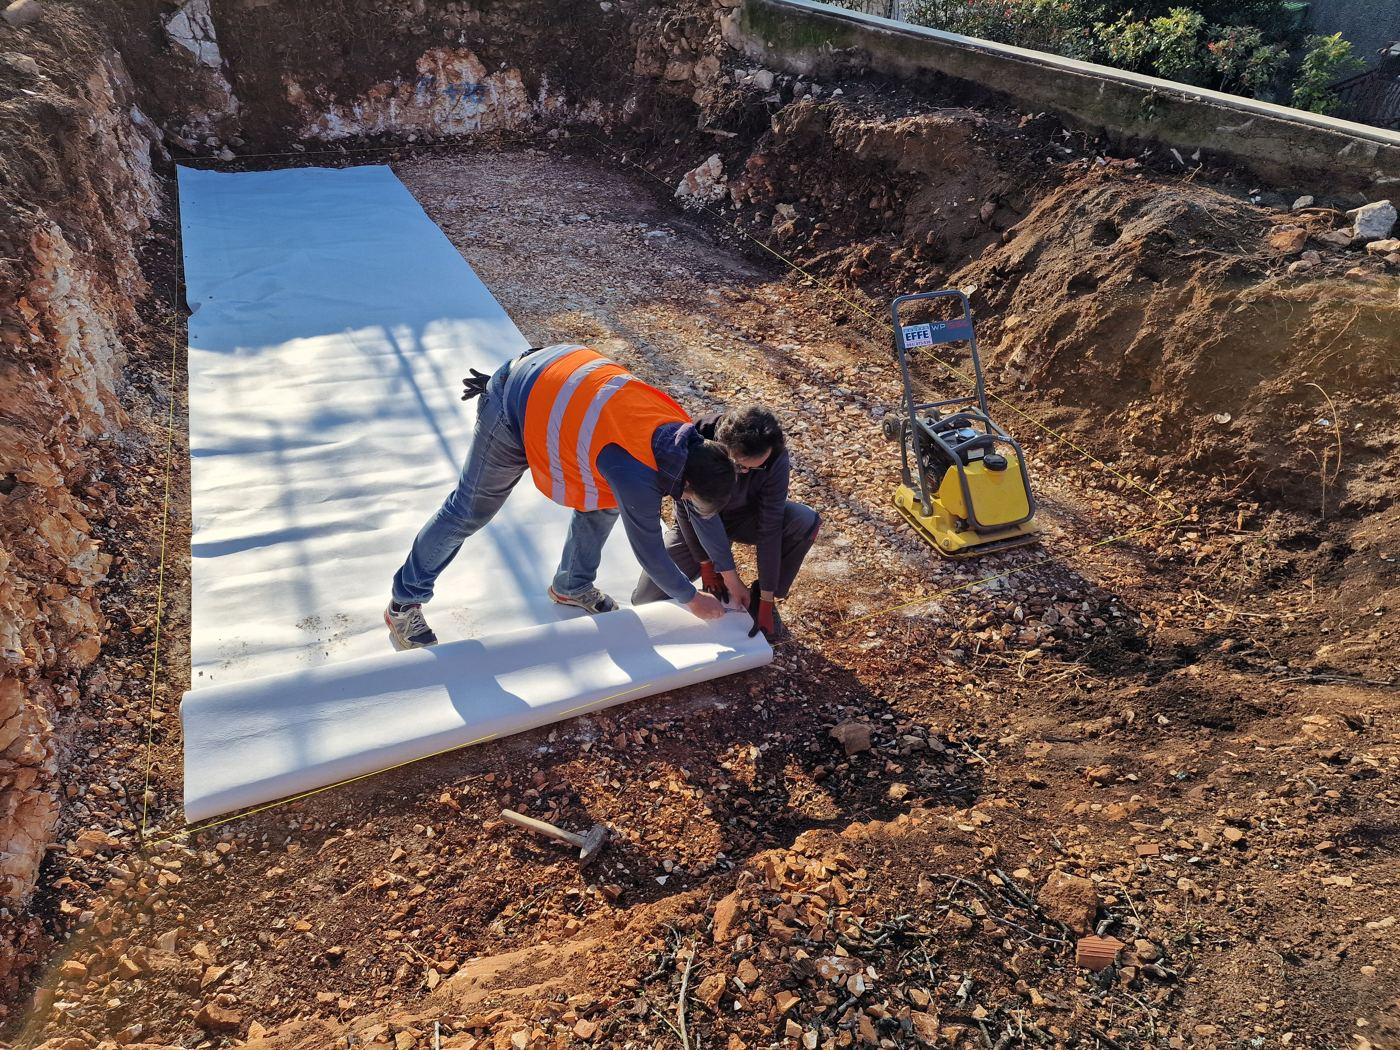
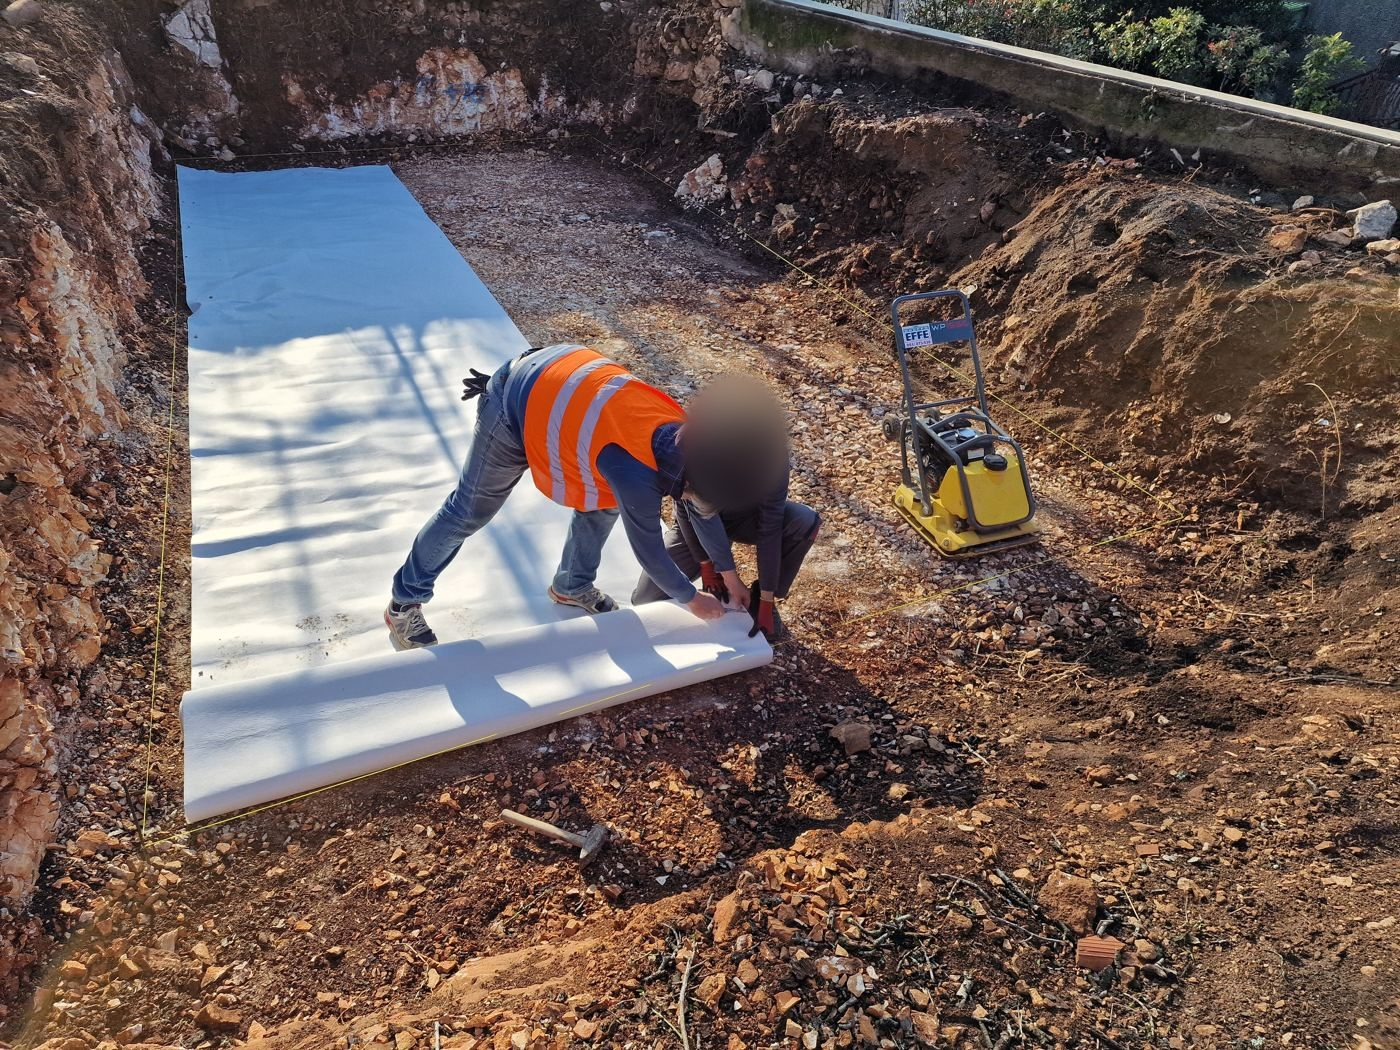
Projekti: preglednik koraka umjesto klizača; zamućena lica; završna obloga s kamenom folijom
Claude-Session: https://claude.ai/code/session_01ApPbRkyBezaKELLNANXPbm

Changed region(s): [[0.4607, 0.3352, 0.5836, 0.4876]]

diff --git a/public/mondo-web/index.html b/public/mondo-web/index.html
@@ -142,6 +142,8 @@ nav.main a[aria-current="page"]{color:var(--aqua-ink)}
 .gallery figure{margin:0;border-radius:14px;overflow:hidden;background:var(--bg-soft);position:relative}
 .gallery img{aspect-ratio:4/3;object-fit:cover;width:100%}
 .projs{display:grid;gap:34px}.proj{display:grid;gap:14px}.proj-h h3{font:700 1.3rem var(--display);margin:2px 0 4px}.proj-h .small{margin:0;max-width:65ch}
+.pv{display:grid;grid-template-columns:minmax(0,1.7fr) minmax(0,1fr);gap:14px;align-items:start}.pv-main{margin:0;position:relative;border-radius:16px;overflow:hidden;background:rgba(6,30,42,.6)}.pv-main img{width:100%;aspect-ratio:4/3;object-fit:cover;display:block;cursor:zoom-in}.pv-main figcaption{position:absolute;left:12px;bottom:12px;right:12px;display:flex;gap:10px;align-items:center;background:rgba(2,13,18,.82);color:#fff;padding:8px 12px;border-radius:12px;font:600 .9rem var(--display)}.pv-main figcaption b{color:var(--aqua);white-space:nowrap}.pv-p,.pv-n{position:absolute;top:50%;transform:translateY(-50%);width:44px;height:44px;border-radius:50%;border:0;background:rgba(2,13,18,.75);color:#fff;font-size:1.6rem;line-height:1;cursor:pointer}.pv-p{left:10px}.pv-n{right:10px}.pv-p:hover,.pv-n:hover{background:var(--aqua);color:#04202b}.pv-steps{list-style:none;margin:0;padding:0;display:flex;flex-direction:column;gap:6px;max-height:min(520px,70vh);overflow-y:auto}.pv-steps button{all:unset;box-sizing:border-box;width:100%;display:grid;grid-template-columns:64px 1fr;gap:10px;align-items:center;padding:5px;border-radius:10px;cursor:pointer;border:1px solid transparent}.pv-steps button:hover{background:rgba(255,255,255,.05)}.pv-steps button[aria-current]{background:rgba(79,195,240,.12);border-color:rgba(79,195,240,.45)}.pv-steps button:focus-visible{outline:2px solid var(--aqua)}.pv-steps img{width:64px;height:48px;object-fit:cover;border-radius:7px}.pv-steps span{font-size:.88rem;color:#fff;display:flex;gap:8px}.pv-steps span b{color:var(--aqua);min-width:1.2em}
+@media (max-width:760px){.pv{grid-template-columns:1fr}.pv-steps{flex-direction:row;overflow-x:auto;max-height:none;gap:6px;padding-bottom:4px}.pv-steps li{flex:0 0 auto}.pv-steps button{grid-template-columns:1fr;width:76px;padding:3px}.pv-steps img{width:68px;height:51px}.pv-steps span{font-size:.72rem;justify-content:center}.pv-steps span{display:none}.pv-steps button[aria-current] img{outline:2px solid var(--aqua)}}
 .gallery.seq{display:grid;grid-auto-flow:column;grid-auto-columns:minmax(220px,280px);grid-template-columns:none;overflow-x:auto;padding-bottom:6px;scroll-snap-type:x proximity}.gallery.seq figure{scroll-snap-align:start}
 .gallery .no{position:absolute;left:10px;top:10px;width:26px;height:26px;border-radius:50%;display:grid;place-items:center;background:var(--aqua);color:#04202b;font:800 .8rem var(--display)}
 .gallery figcaption{position:absolute;left:10px;bottom:10px;background:rgba(19,22,61,.78);color:#fff;font:600 .74rem var(--display);padding:5px 10px;border-radius:999px}
@@ -1001,7 +1003,7 @@ const STR=[["slike/r/4.jpg", "Strojarnica"], ["slike/r/166.jpg", "Filter, pumpa 
 const ZIMA=[["slike/r/113.jpg", "Zimski pokrivač"], ["slike/r/331.jpg", "Pokrivač s pogledom na more"], ["slike/r/102.jpg", "Pokrivač na terasi"], ["slike/r/242.jpg", "Pokrivač"], ["slike/r/265.jpg", "Pokrivač"], ["slike/r/283.jpg", "Pokrivač"], ["slike/r/95.jpg", "Zimski pokrivač"], ["slike/r/333.jpg", "Winter P uz bazen"], ["slike/r/264.jpg", "Solarni pokrivač"]];
 const SPA=[["slike/r/14.jpg", "Plivanje u swim spa"], ["slike/r/74.jpg", "Pogled odozgo"], ["slike/r/134.jpg", "S pokrivačem"]];
 const GALNEW=[["slike/r/7.jpg", "Naš bazen"], ["slike/r/197.jpg", "Naš bazen"], ["slike/r/198.jpg", "Naš bazen"], ["slike/r/6.jpg", "Naš bazen"], ["slike/r/15.jpg", "Naš bazen"], ["slike/r/18.jpg", "Naš bazen"], ["slike/r/24.jpg", "Naš bazen"], ["slike/r/34.jpg", "Naš bazen"], ["slike/r/36.jpg", "Naš bazen"], ["slike/r/45.jpg", "Naš bazen"], ["slike/r/50.jpg", "Naš bazen"], ["slike/r/54.jpg", "Naš bazen"], ["slike/r/58.jpg", "Naš bazen"], ["slike/r/66.jpg", "Naš bazen"], ["slike/r/75.jpg", "Naš bazen"], ["slike/r/78.jpg", "Naš bazen"], ["slike/r/80.jpg", "Naš bazen"], ["slike/r/116.jpg", "Naš bazen"], ["slike/r/121.jpg", "Naš bazen"], ["slike/r/123.jpg", "Naš bazen"], ["slike/r/127.jpg", "Naš bazen"], ["slike/r/131.jpg", "Naš bazen"], ["slike/r/132.jpg", "Naš bazen"], ["slike/r/148.jpg", "Naš bazen"], ["slike/r/163.jpg", "Naš bazen"], ["slike/r/164.jpg", "Naš bazen"], ["slike/r/167.jpg", "Naš bazen"], ["slike/r/168.jpg", "Naš bazen"], ["slike/r/169.jpg", "Naš bazen"], ["slike/r/174.jpg", "Naš bazen"], ["slike/r/189.jpg", "Naš bazen"], ["slike/r/190.jpg", "Naš bazen"], ["slike/r/193.jpg", "Naš bazen"], ["slike/r/203.jpg", "Naš bazen"], ["slike/r/204.jpg", "Naš bazen"], ["slike/r/214.jpg", "Naš bazen"], ["slike/r/222.jpg", "Naš bazen"], ["slike/r/226.jpg", "Naš bazen"], ["slike/r/227.jpg", "Naš bazen"], ["slike/r/228.jpg", "Naš bazen"], ["slike/r/233.jpg", "Naš bazen"], ["slike/r/236.jpg", "Naš bazen"], ["slike/r/245.jpg", "Naš bazen"], ["slike/r/250.jpg", "Naš bazen"], ["slike/r/251.jpg", "Naš bazen"], ["slike/r/254.jpg", "Naš bazen"], ["slike/r/266.jpg", "Naš bazen"], ["slike/r/268.jpg", "Naš bazen"], ["slike/r/276.jpg", "Naš bazen"], ["slike/r/277.jpg", "Naš bazen"], ["slike/r/279.jpg", "Naš bazen"], ["slike/r/280.jpg", "Naš bazen"], ["slike/r/284.jpg", "Naš bazen"], ["slike/r/286.jpg", "Naš bazen"], ["slike/r/287.jpg", "Naš bazen"], ["slike/r/296.jpg", "Naš bazen"], ["slike/r/298.jpg", "Naš bazen"], ["slike/r/310.jpg", "Naš bazen"], ["slike/r/312.jpg", "Naš bazen"], ["slike/r/316.jpg", "Naš bazen"], ["slike/r/324.jpg", "Naš bazen"], ["slike/r/325.jpg", "Naš bazen"], ["slike/r/326.jpg", "Naš bazen"], ["slike/r/329.jpg", "Naš bazen"], ["slike/r/342.jpg", "Naš bazen"], ["slike/r/17.jpg", "Naš bazen"], ["slike/r/337.jpg", "Naš bazen"]];
-const projHtml = list => list.map(p => `<article class="proj"><div class="proj-h"><p class="eyebrow">${p.k}</p><h3>${p.t}</h3><p class="small">${p.d}</p></div><div class="gallery seq">${p.s.map(([u,c],i) => `<figure><img src="${u}" alt="${p.t} – ${c}" loading="lazy"><span class="no">${i+1}</span><figcaption>${c}</figcaption></figure>`).join('')}</div></article>`).join('');
+const projHtml = list => list.map(p => `<article class="proj"><div class="proj-h"><p class="eyebrow">${p.k}</p><h3>${p.t}</h3><p class="small">${p.d}</p></div><div class="pv" data-n="${p.s.length}"><figure class="pv-main"><img src="${p.s[0][0]}" alt="${p.t} – ${p.s[0][1]}" loading="lazy"><figcaption><b>1 / ${p.s.length}</b> <span>${p.s[0][1]}</span></figcaption>${p.s.length > 1 ? '<button type="button" class="pv-p" aria-label="Prethodni korak">‹</button><button type="button" class="pv-n" aria-label="Sljedeći korak">›</button>' : ''}</figure><ol class="pv-steps">${p.s.map(([u,c],i) => `<li><button type="button" data-i="${i}" data-src="${u}" data-cap="${c}"${i ? '' : ' aria-current="step"'}><img src="${u}" alt="" loading="lazy"><span><b>${i+1}</b>${c}</span></button></li>`).join('')}</ol></div></article>`).join('');
 const BETON = [[S('betonski-keramika-preljev'),'Preljevni bazen, keramika'],[S('betonski-pogled-more'),'Pogled na more'],[S('bazen-tamni-drvena-terasa'),'Tamna obloga, drvena terasa'],[S('betonski-more-pergola'),'Bazen uz more'],[S('betonski-tamni-mozaik'),'Tamni mozaik'],[S('bazen-tamni-crkva'),'Tamna obloga'],[S('betonski-mozaik-stepenice'),'Mozaik i stepenice'],[S('betonski-rijeka-ljeto'),'Pogled na Kvarner'],[S('bazen-keramika-robot'),'Keramička obloga'],[S('bazen-pravokutni-vrt'),'Betonski bazen u vrtu'],[S('betonski-preljev-kvarner'),'Preljevni rub'],[S('bazen-pogled-more-terasa'),'Terasa s pogledom']];
 const FPG = [[S('fp-ovalni-vrt'),'Ovalni FP'],[S('fp-ovalni-terasa'),'Ovalni FP na terasi'],[S('fp-ovalni-sunce'),'Ovalni FP'],[S('fp-ovalni-voda'),'Bistra voda'],[S('bazen-zaobljeni-kuca'),'Pravokutni FP'],[S('bazen-osmerokutni-punjenje'),'Punjenje bazena']];
 const GALLERY = [[S('bazen-pogled-ucka'),'Ključ u ruke'],[S('fp-ovalni-vrt'),'Ovalni bazen'],[S('bazen-pravokutni-vrt'),'Betonski bazen'],[S('bazen-tamni-drvena-terasa'),'Betonski bazen'],[S('bazen-zaobljeni-kuca'),'Zaobljeni kutovi'],[S('bazen-plocice-lezaljke'),'Keramička obloga'],[S('fp-ovalni-voda'),'Bistra voda'],[S('bazen-osmerokutni-punjenje'),'Punjenje bazena'],[S('bazen-isporuka-opreme'),'Isporuka opreme'],[S('bazen-pravokutni-otvaranje'),'Otvaranje sezone'],[S('bazen-zimski-pokrivac'),'Zimovanje'],[S('bazen-sigurnosni-pokrivac'),'Sigurnosni pokrivač'],[S('betonski-pogled-more'),'Betonski bazen, pogled na more'],[S('betonski-preljev-kvarner'),'Preljevni bazen'],[S('bazen-mozaik-more'),'Mozaik obloga']];
@@ -1023,7 +1025,7 @@ const pairHtml = list => list.map(([a,b,t,d,c]) => `<figure class="pair"><div cl
 $set('pairsKur', projHtml([{"t": "Betonski bazen u stijeni iznad mora", "k": "Projekt ključ u ruke · Opatijska rivijera", "d": "Iskop u stijeni, hidroizolacija, armatura s cijevima i ugradnim dijelovima, oplata, zatim keramika, rubni kamen i rasvjeta.", "s": [["slike/r/150.jpg", "Hidroizolacija i armatura dna"], ["slike/r/330.jpg", "Armatura dna"], ["slike/r/344.jpg", "Armatura uz oplatu"], ["slike/r/328.jpg", "Cijevi i podni odvodi"], ["slike/r/345.jpg", "Mlaznice i rasvjeta u zidu"], ["slike/r/346.jpg", "Oplata zidova"], ["slike/r/327.jpg", "Oplata iznutra"], ["slike/kur-more-keramika.jpg", "Keramika i rubni kamen"], ["slike/kur-more-rasvjeta.jpg", "Završeni bazen"], ["slike/kur-more-noc.jpg", "Rasvjeta navečer"]]}]));
 
 $set('galleryKurMost', gHtml([[S('kur-l-skoljka-planine'),'Oplata školjke'],[S('kur-l-oplata-stepenica'),'Oplata stepenica i šaht'],[S('kur-l-stepenice-strojarnica'),'Stepenice i strojarnica'],[S('kur-l-skoljka-pogled'),'Školjka uz kuću'],[S('kur-l-zidovi'),'Betonski zidovi'],[S('kur-l-zidovi-kuca'),'Ugradbeni dijelovi u zidu'],["slike/r/70.jpg", "Iskop i zidovi"],["slike/r/272.jpg", "Stepenice i zidovi"],["slike/r/243.jpg", "Gotov bazen"],[S('kur-most-pregled'),'Pregled projekta'],[S('kur-most-kuca'),'Most i stepenice'],[S('kur-most-hidromasaza'),'Hidromasaža s klupama'],[S('kur-most-stepenice'),'Ulazne stepenice'],[S('kur-most-dno'),'Dno i mlaznice'],[S('kur-most-strojarnica'),'Šaht strojarnice']]));
-$set('galleryKurObloge', gHtml([[S('kur-obloga-tamna-stepenice'),'Tamna folija sa stepenicama'],[S('kur-keramika-svijetla'),'Svijetla keramika'],[S('kur-plocice-plave-more'),'Plave pločice, pogled na more'],[S('kur-zbuka-skoljka'),'Žbukana školjka'],[S('kur-zbuka-skimeri'),'Skimeri prije obloge']]));
+$set('galleryKurObloge', gHtml([[S('kur-obloga-tamna-stepenice'),'Tamna folija sa stepenicama'],[S('kur-keramika-svijetla'),'Svijetla keramika'],[S('kur-plocice-plave-more'),'Plave pločice, pogled na more'],[S('kur-zbuka-skoljka'),'Žbukana školjka'],[S('kur-zbuka-skimeri'),'Skimeri prije obloge'],['slike/r/obloga-kamen-skimeri.jpg','Isti bazen: folija s uzorkom kamena'],['slike/r/obloga-kamen-stepenice.jpg','Stepenice i klupa u istoj foliji']]));
 $set('galleryKurFp', projHtml([{t:'Ovalni FP bazen iza kuće',k:'Od podloge do gotovog bazena',d:'Čelični zid na ploči, folija, obzidavanje blokom, popločenje i terasa.',s:[[S('kur-fp-ovalni-stijena'),'Zid na pripremljenoj ploči'],['slike/r/104.jpg','Folija i punjenje'],['slike/r/105.jpg','Obzidavanje blokom'],['slike/r/159.jpg','Zatrpano i napunjeno'],['slike/r/244.jpg','Popločenje'],['slike/r/119.jpg','WPC terasa gotova'],['slike/r/fp-kuce-okolis.jpg','Živica i okoliš'],['slike/r/81.jpg','Prvo ljeto'],['slike/r/99.jpg','Gotov bazen']]},{t:'Pravokutni FP bazen',k:'Podloga i zidovi',d:'Betonska ploča, čelični zid i obzidavanje blokom.',s:[[S('kur-fp-zidovi'),'Zidovi i podloga']]}]));
 document.getElementById('pairsMaint').innerHTML = PAIRS.map(([a,b,t,d,c]) => `<figure class="pair"><div class="ph${c?' three':''}">${[a,b,c].filter(Boolean).map(([f,l]) => `<div><img src="${S(f)}" alt="${t} – ${l}" loading="lazy"><span>${l}</span></div>`).join('')}</div><figcaption><b>${t}.</b> ${d}</figcaption></figure>`).join('');
 document.getElementById('galleryMaint').innerHTML = gHtml([[S('odr-mjerenje-sol-klor'),'Mjerenje soli i klora'],[S('odr-mreza-ciscenje'),'Čišćenje površine'],[S('odrzavanje-usisavanje'),'Usisavanje dna'],[S('bazen-pravokutni-otvaranje'),'Otvaranje sezone'],[S('odr-zimovanje-winterp'),'Zimovanje uz Winter P'],[S('odr-zimski-pokrivac'),'Zimski pokrivač']]);
@@ -1242,7 +1244,8 @@ $set('gallerySpa', gHtml(SPA));
     document.body.appendChild(box); document.body.style.overflow = 'hidden'; show(); box.querySelector('.lb-x').focus();
   };
   document.addEventListener('click', e => {
-    const im = e.target.closest('.gallery img, .pair img'); if (!im) return;
+    const im = e.target.closest('.gallery img, .pair img, .pv-main img'); if (!im) return;
+    if (im.closest('.pv-main')) { const bs = [...im.closest('.pv').querySelectorAll('.pv-steps button')]; const fake = bs.map(b => ({ src: b.dataset.src, alt: b.dataset.cap, closest: () => null })); open(fake, bs.findIndex(b => b.hasAttribute('aria-current'))); return; }
     const group = [...im.closest('.gallery, .pairs').querySelectorAll('img')];
     open(group, group.indexOf(im));
   });
@@ -1264,6 +1267,19 @@ document.querySelectorAll('a[href^="#"]').forEach(a => { const k = a.getAttribut
   }).join('');
 })();
 (() => { const b = document.getElementById('toTop'); if (!b) return; const f = () => { b.hidden = scrollY < 900; }; addEventListener('scroll', f, { passive: true }); f(); b.onclick = () => scrollTo({ top: 0, behavior: 'smooth' }); })();
+document.addEventListener('click', e => {
+  const pv = e.target.closest('.pv'); if (!pv) return;
+  const btns = [...pv.querySelectorAll('.pv-steps button')]; let k = btns.findIndex(b => b.hasAttribute('aria-current'));
+  const sb = e.target.closest('.pv-steps button');
+  if (sb) k = +sb.dataset.i; else if (e.target.closest('.pv-n')) k = (k + 1) % btns.length; else if (e.target.closest('.pv-p')) k = (k - 1 + btns.length) % btns.length; else return;
+  const b = btns[k], img = pv.querySelector('.pv-main img');
+  img.src = b.dataset.src; img.alt = b.dataset.cap;
+  pv.querySelector('.pv-main figcaption').innerHTML = `<b>${k + 1} / ${btns.length}</b> <span>${b.dataset.cap}</span>`;
+  btns.forEach(x => x.removeAttribute('aria-current')); b.setAttribute('aria-current', 'step');
+  b.scrollIntoView({ block: 'nearest', inline: 'nearest', behavior: 'smooth' });
+});
+document.addEventListener('touchstart', e => { const m = e.target.closest('.pv-main'); if (m) m._x = e.touches[0].clientX; }, { passive: true });
+document.addEventListener('touchend', e => { const m = e.target.closest('.pv-main'); if (!m || m._x == null) return; const d = e.changedTouches[0].clientX - m._x; m._x = null; if (Math.abs(d) > 40) m.querySelector(d < 0 ? '.pv-n' : '.pv-p')?.click(); });
 route();
 </script>
 </body>
